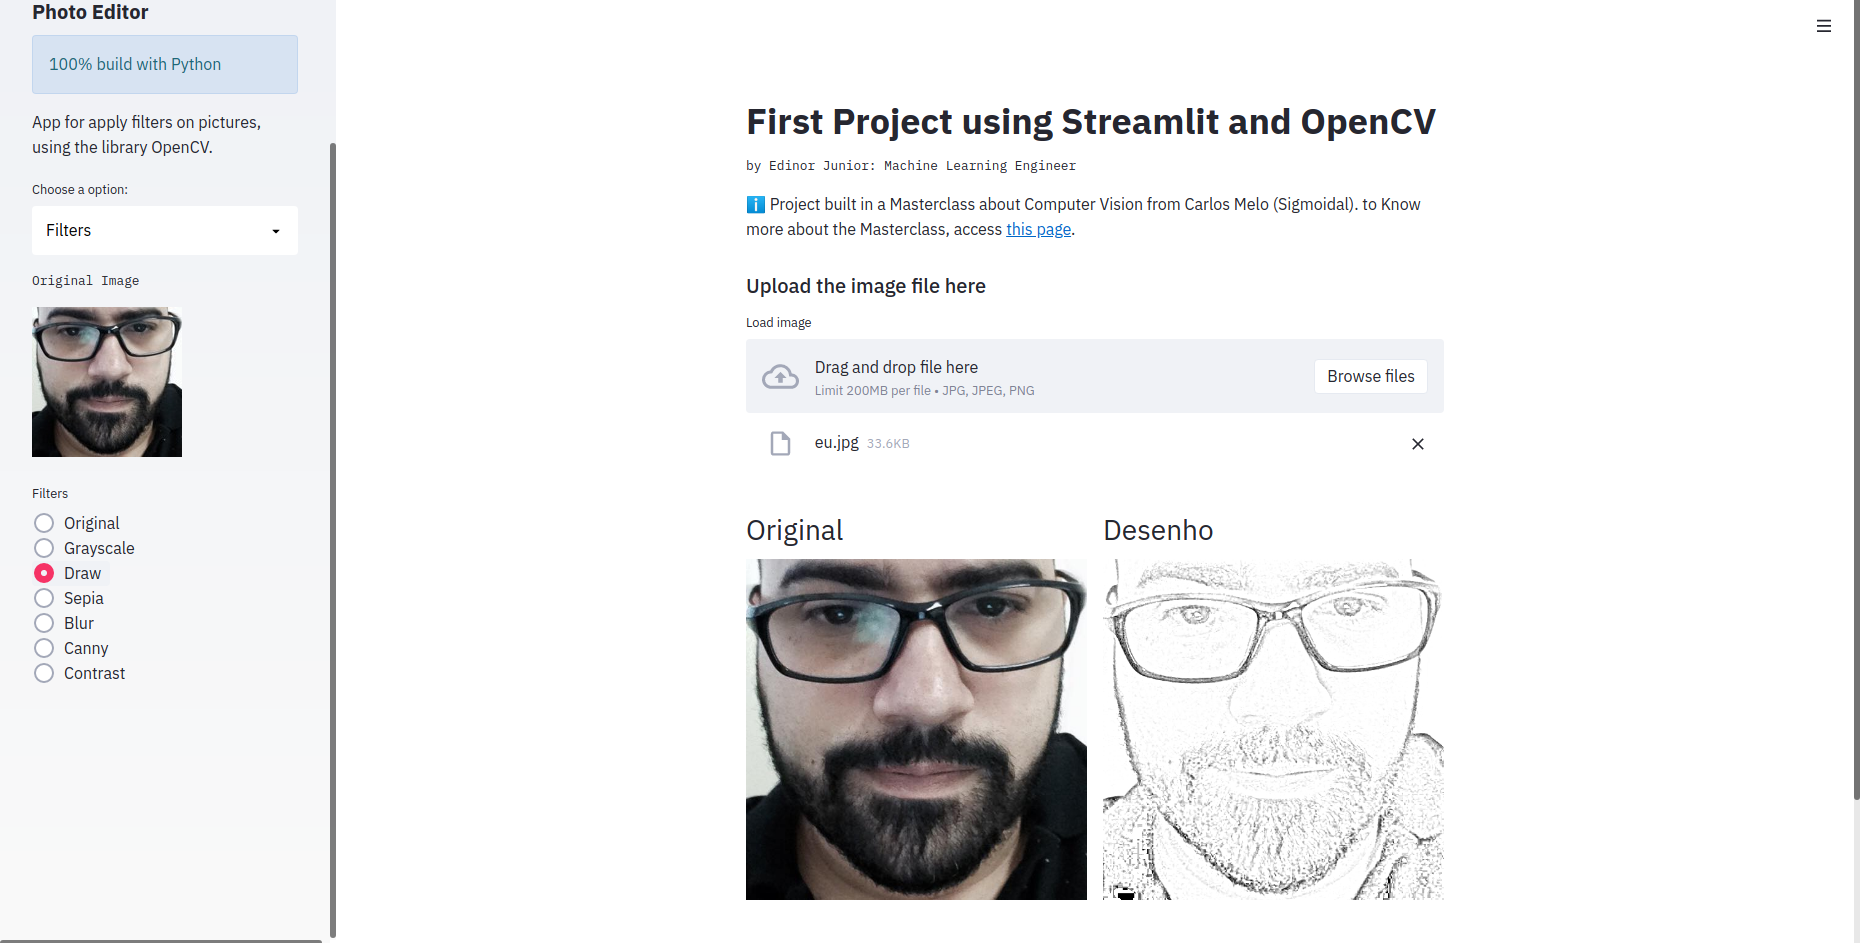
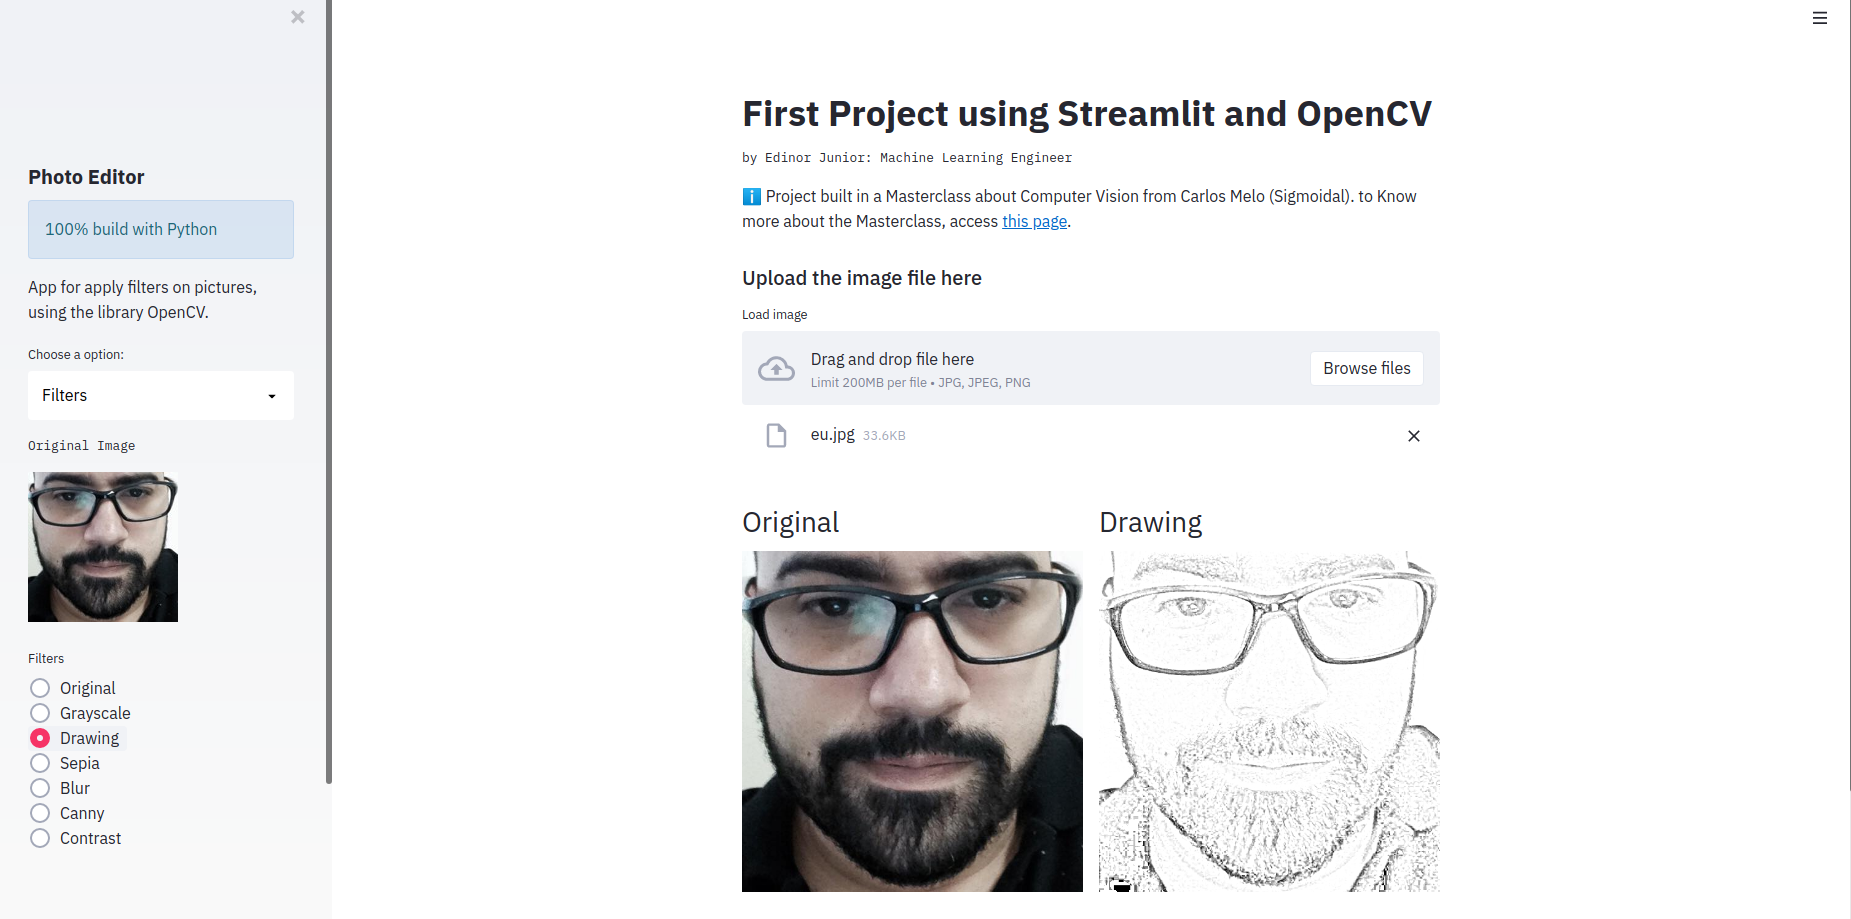
Update main.py and screenshot

diff --git a/main.py b/main.py
@@ -39,7 +39,7 @@ def main():
         col1, col2 = st.beta_columns(2)
 
         # list of filters
-        filters = st.sidebar.radio("Filters", ["Original", "Grayscale", "Draw", "Sepia", "Blur", "Canny", "Contrast"])
+        filters = st.sidebar.radio("Filters", ["Original", "Grayscale", "Drawing", "Sepia", "Blur", "Canny", "Contrast"])
 
         if filters == "Grayscale":
             converted_image = np.array(our_image.convert('RGB'))
@@ -50,7 +50,7 @@ def main():
             col2.header("Grayscale")
             col2.image(gray_image, use_column_width=True)
 
-        elif filters == "Draw":
+        elif filters == "Drawing":
             converted_image = np.array(our_image.convert("RGB"))
             gray_image = cv2.cvtColor(converted_image, cv2.COLOR_RGB2GRAY)
             inv_gray_image = 255 - gray_image
@@ -59,7 +59,7 @@ def main():
 
             col1.header("Original")
             col1.image(our_image, use_column_width=True)
-            col2.header("Desenho")
+            col2.header("Drawing")
             col2.image(sketch_image, use_column_width=True)
 
         elif filters == "Sepia":
